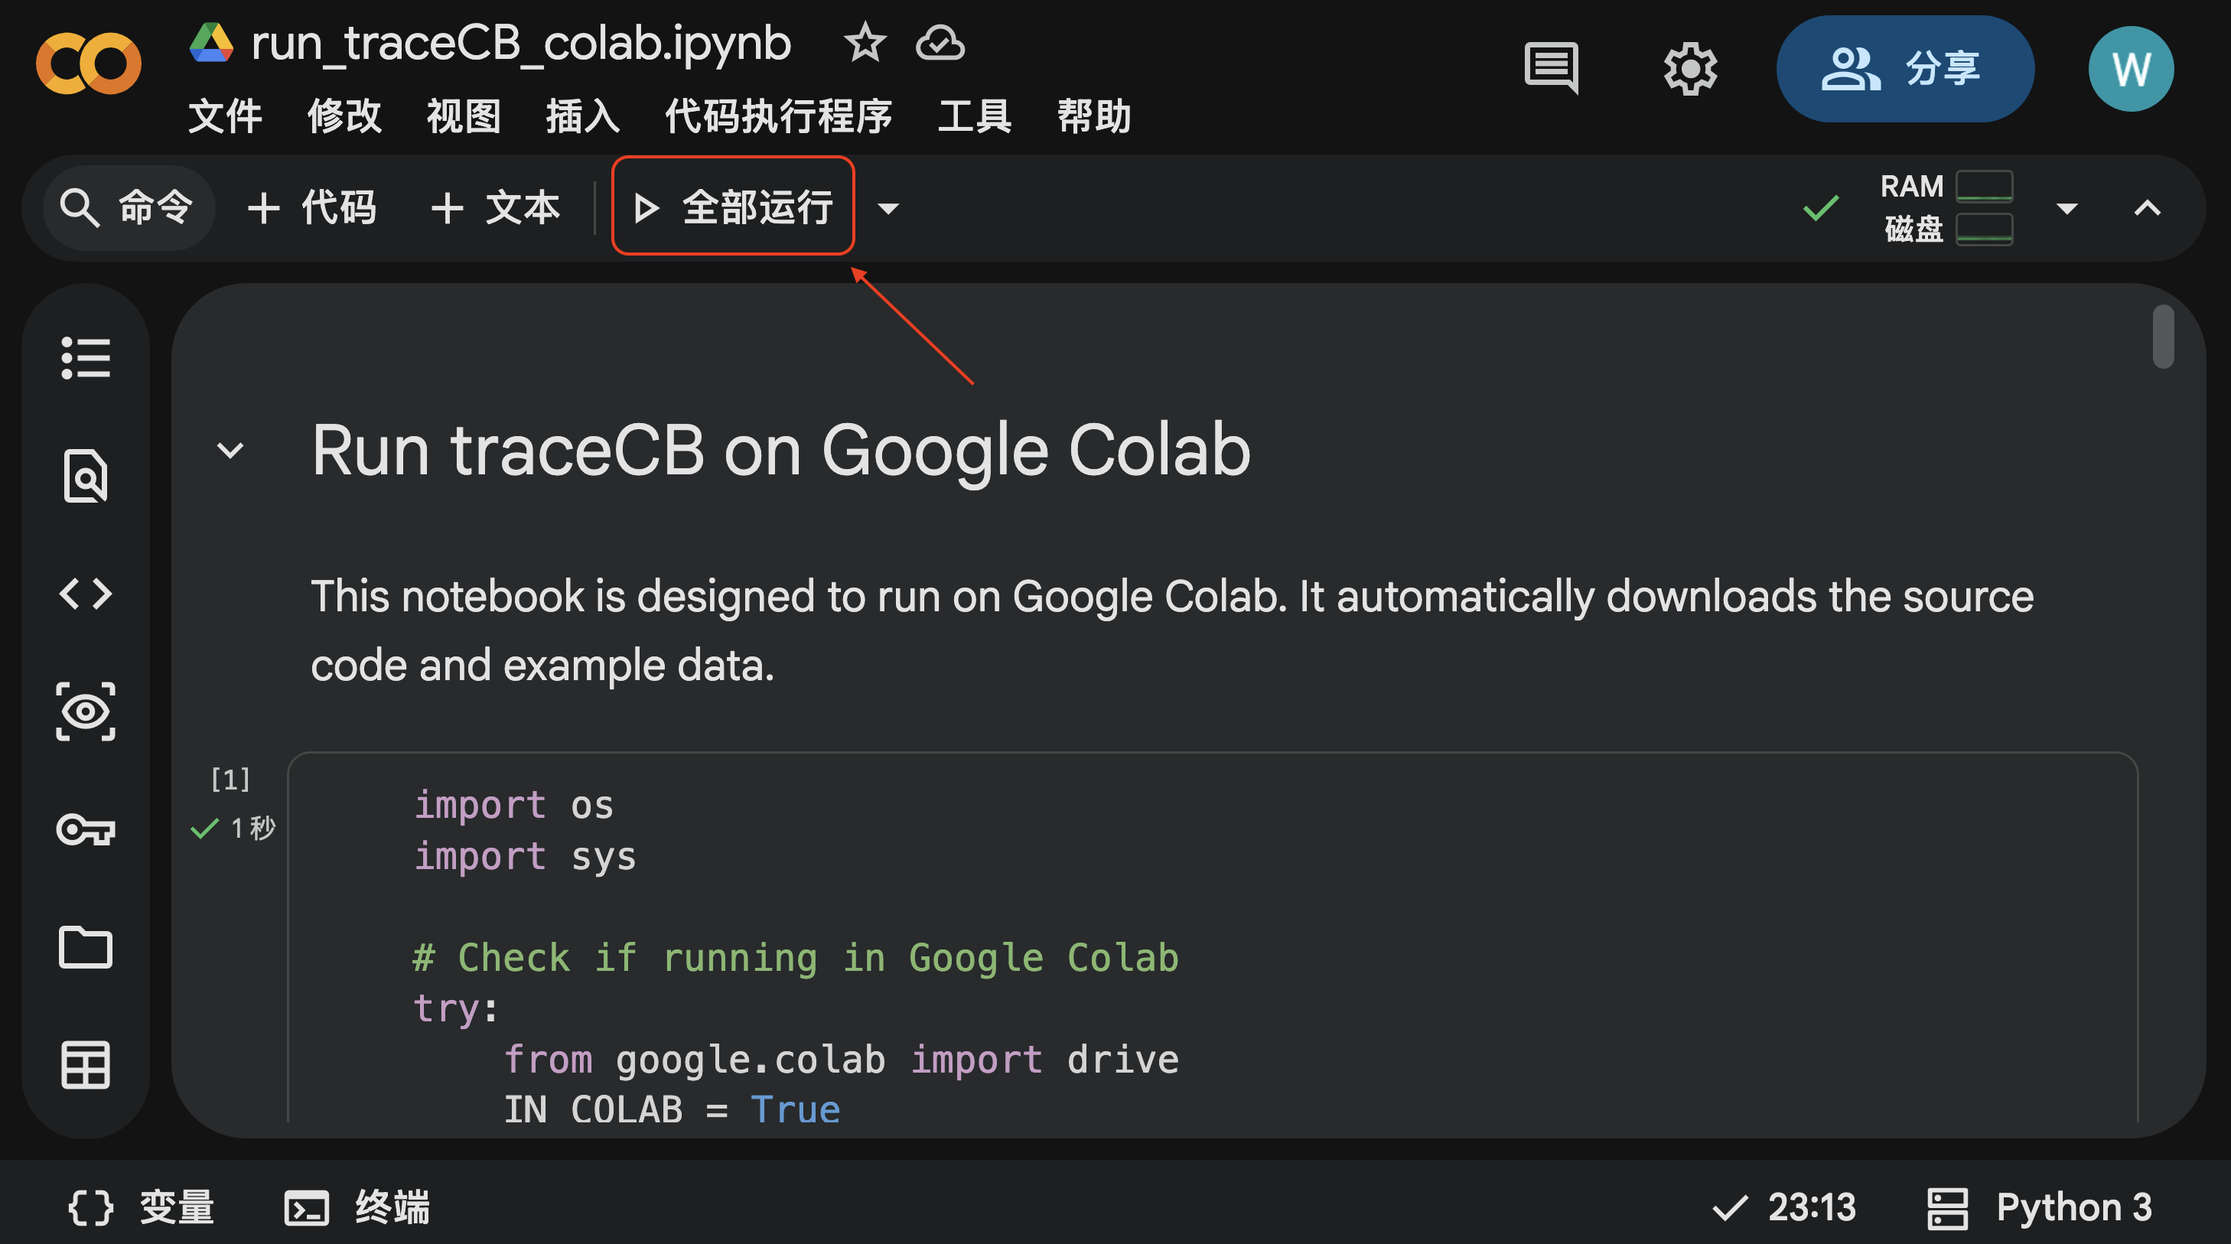
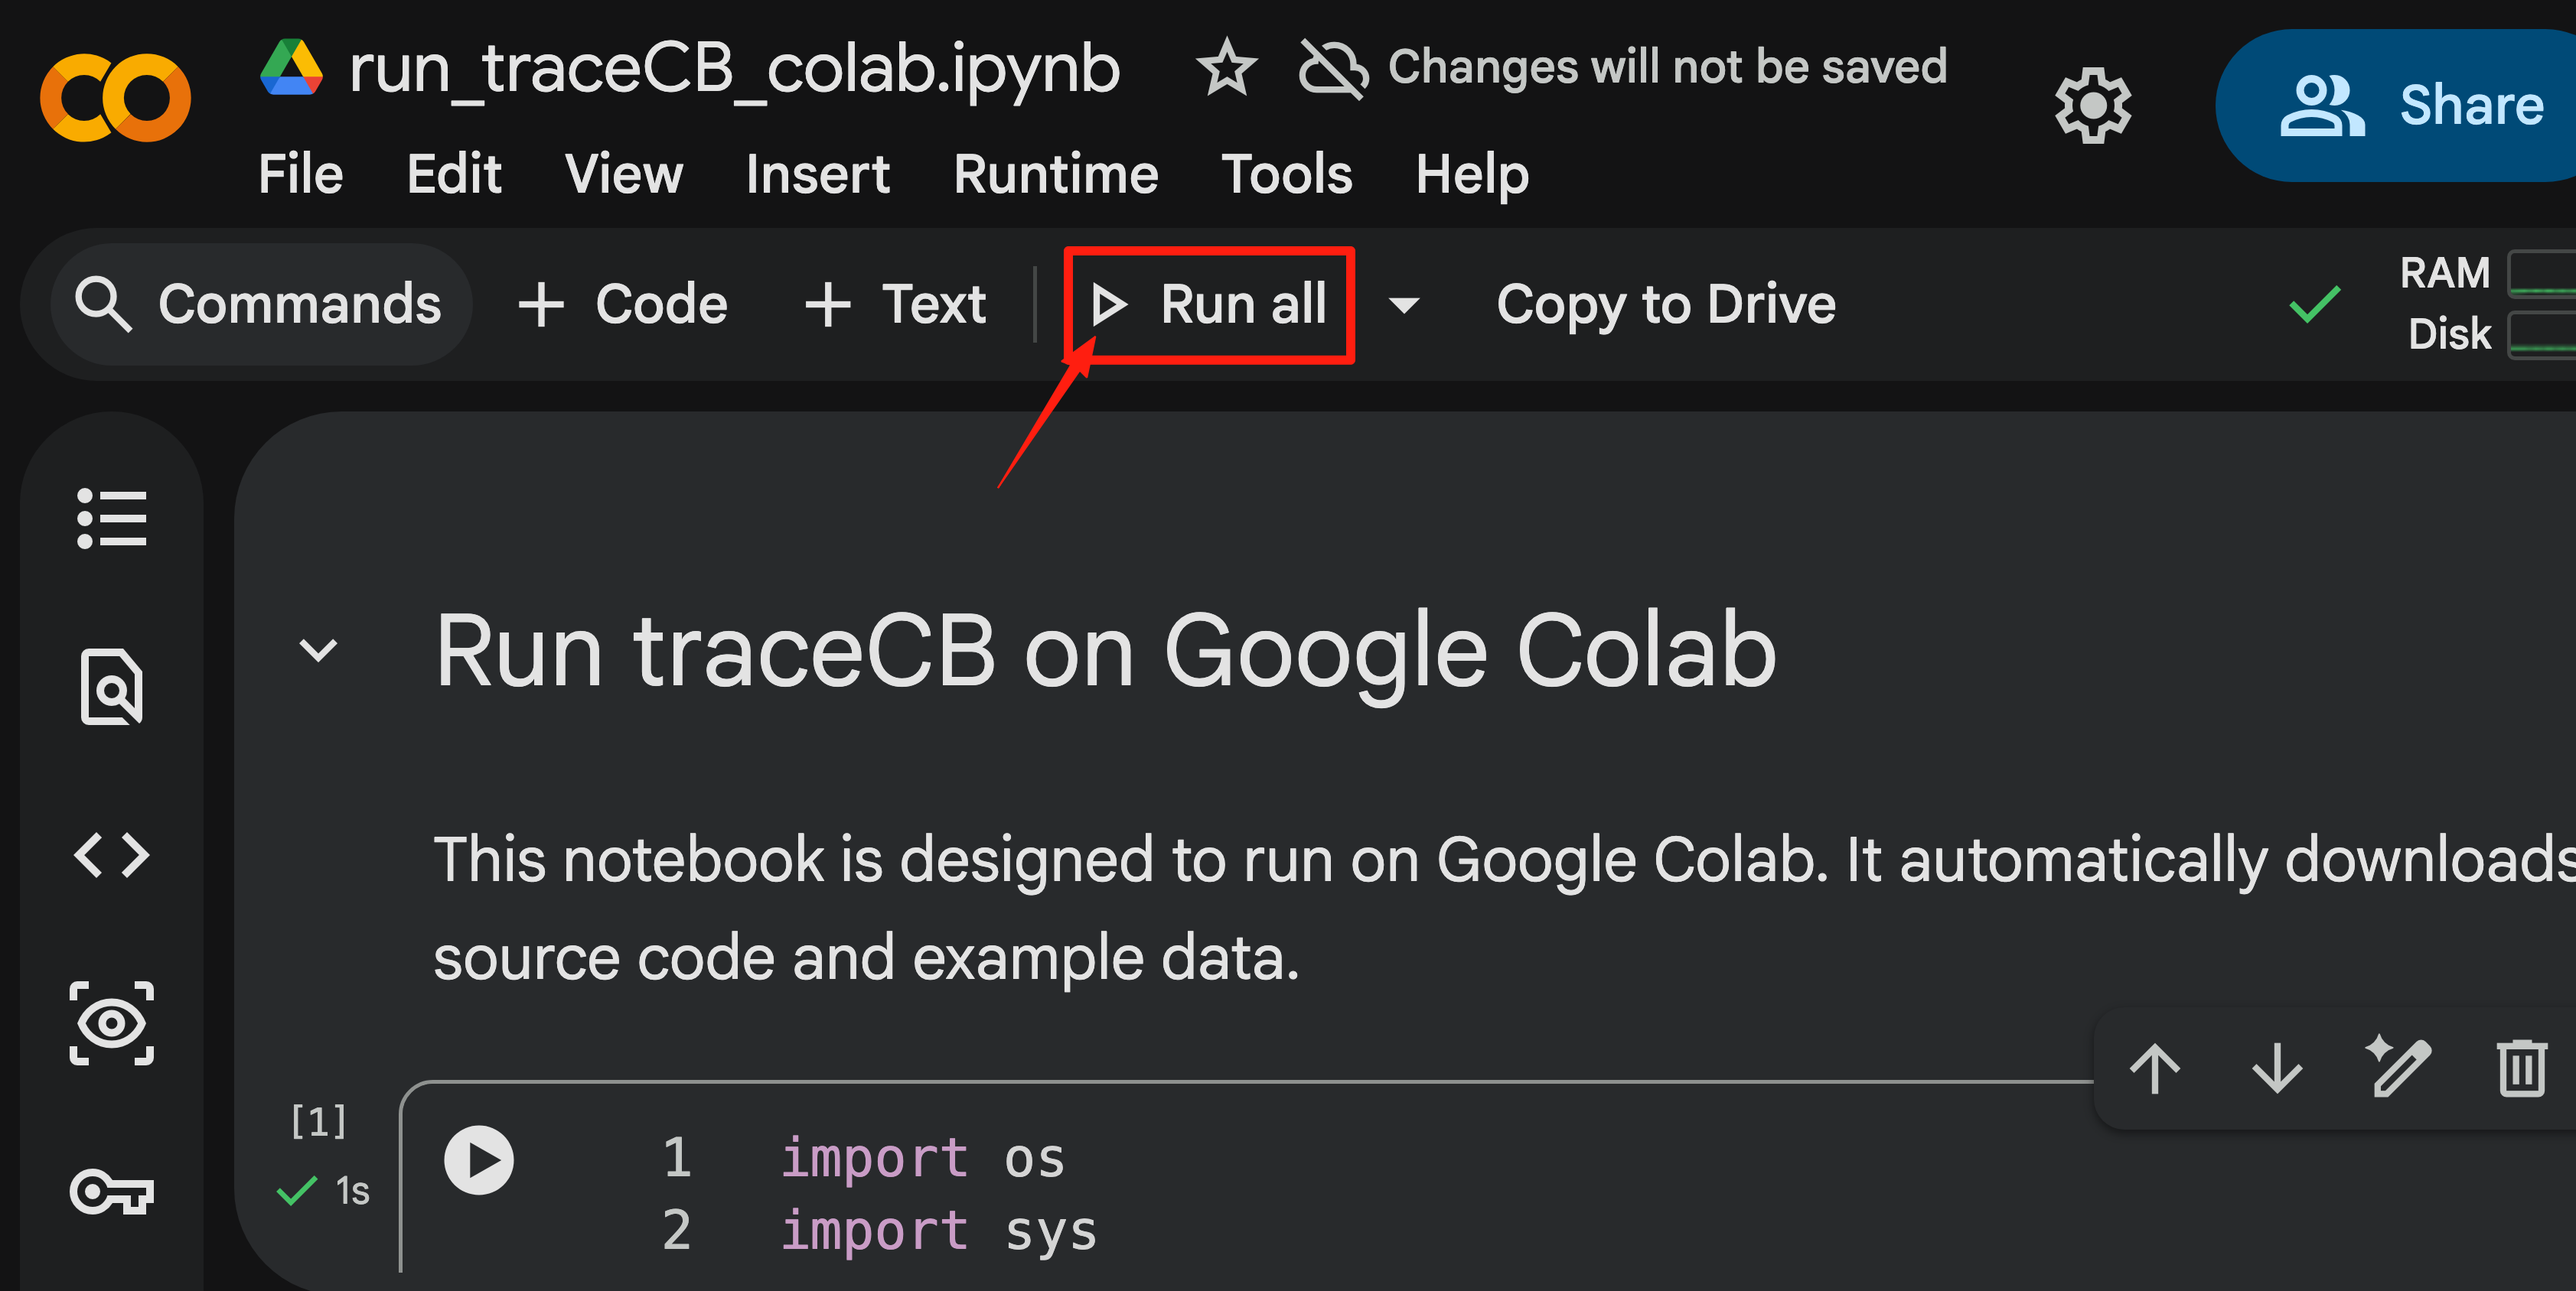
minor

diff --git a/docs/tutorial.md b/docs/tutorial.md
@@ -10,7 +10,7 @@ This tutorial provides a hands-on guide to applying `traceCB` using a sample dat
 
 ## Option 1: Quick Start with Google Colab
 
-For immediate exploration without configuring a local environment, use our Google Colab notebook.
+For immediate exploration without configuring a local environment, use our Google Colab notebook. Click the link below to open the tutorial directly in Colab, and use the **Run All** option to execute the entire notebook to see the results.
 
 [![Open In Colab](https://colab.research.google.com/assets/colab-badge.svg)](https://colab.research.google.com/drive/1kfmlbzRdgyQ1BjkBe10x82tuKNGL5xqt?usp=sharing)[https://colab.research.google.com/drive/1kfmlbzRdgyQ1BjkBe10x82tuKNGL5xqt?usp=sharing](https://colab.research.google.com/drive/1kfmlbzRdgyQ1BjkBe10x82tuKNGL5xqt?usp=sharing)
 
